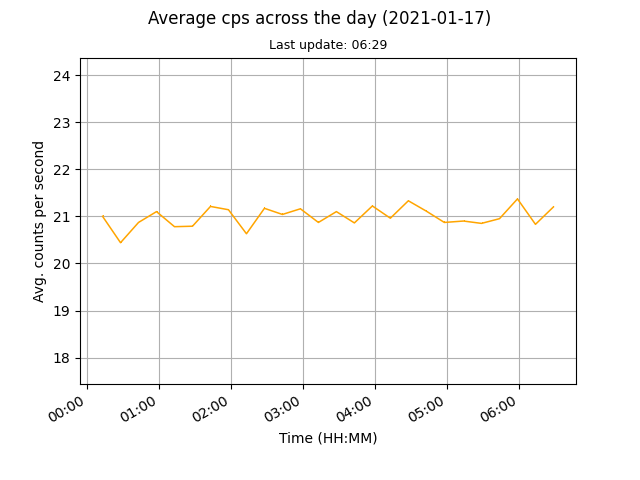
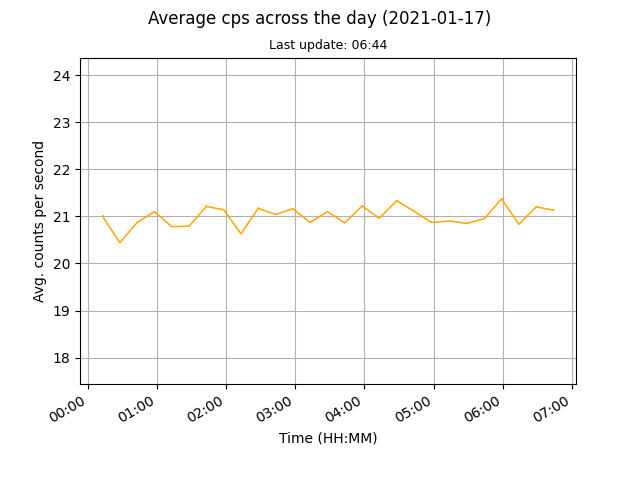
auto data update

diff --git a/docs/index.html b/docs/index.html
@@ -45,8 +45,8 @@
 	
 	<br>
 	
-	<p>Current counts per second (cps): 21.2</p>
-	<p>Last update: 2021-01-17, 06:29</p>
+	<p>Current counts per second (cps): 21.13</p>
+	<p>Last update: 2021-01-17, 06:44</p>
 
 	<p><a href="images/monthly.png"><img src="images/monthly.png" alt="Mothly avg cps data"></a><a href="images/daily.png"><img src="images/daily.png" alt="Daily avg cps data"></a></p>
 	
